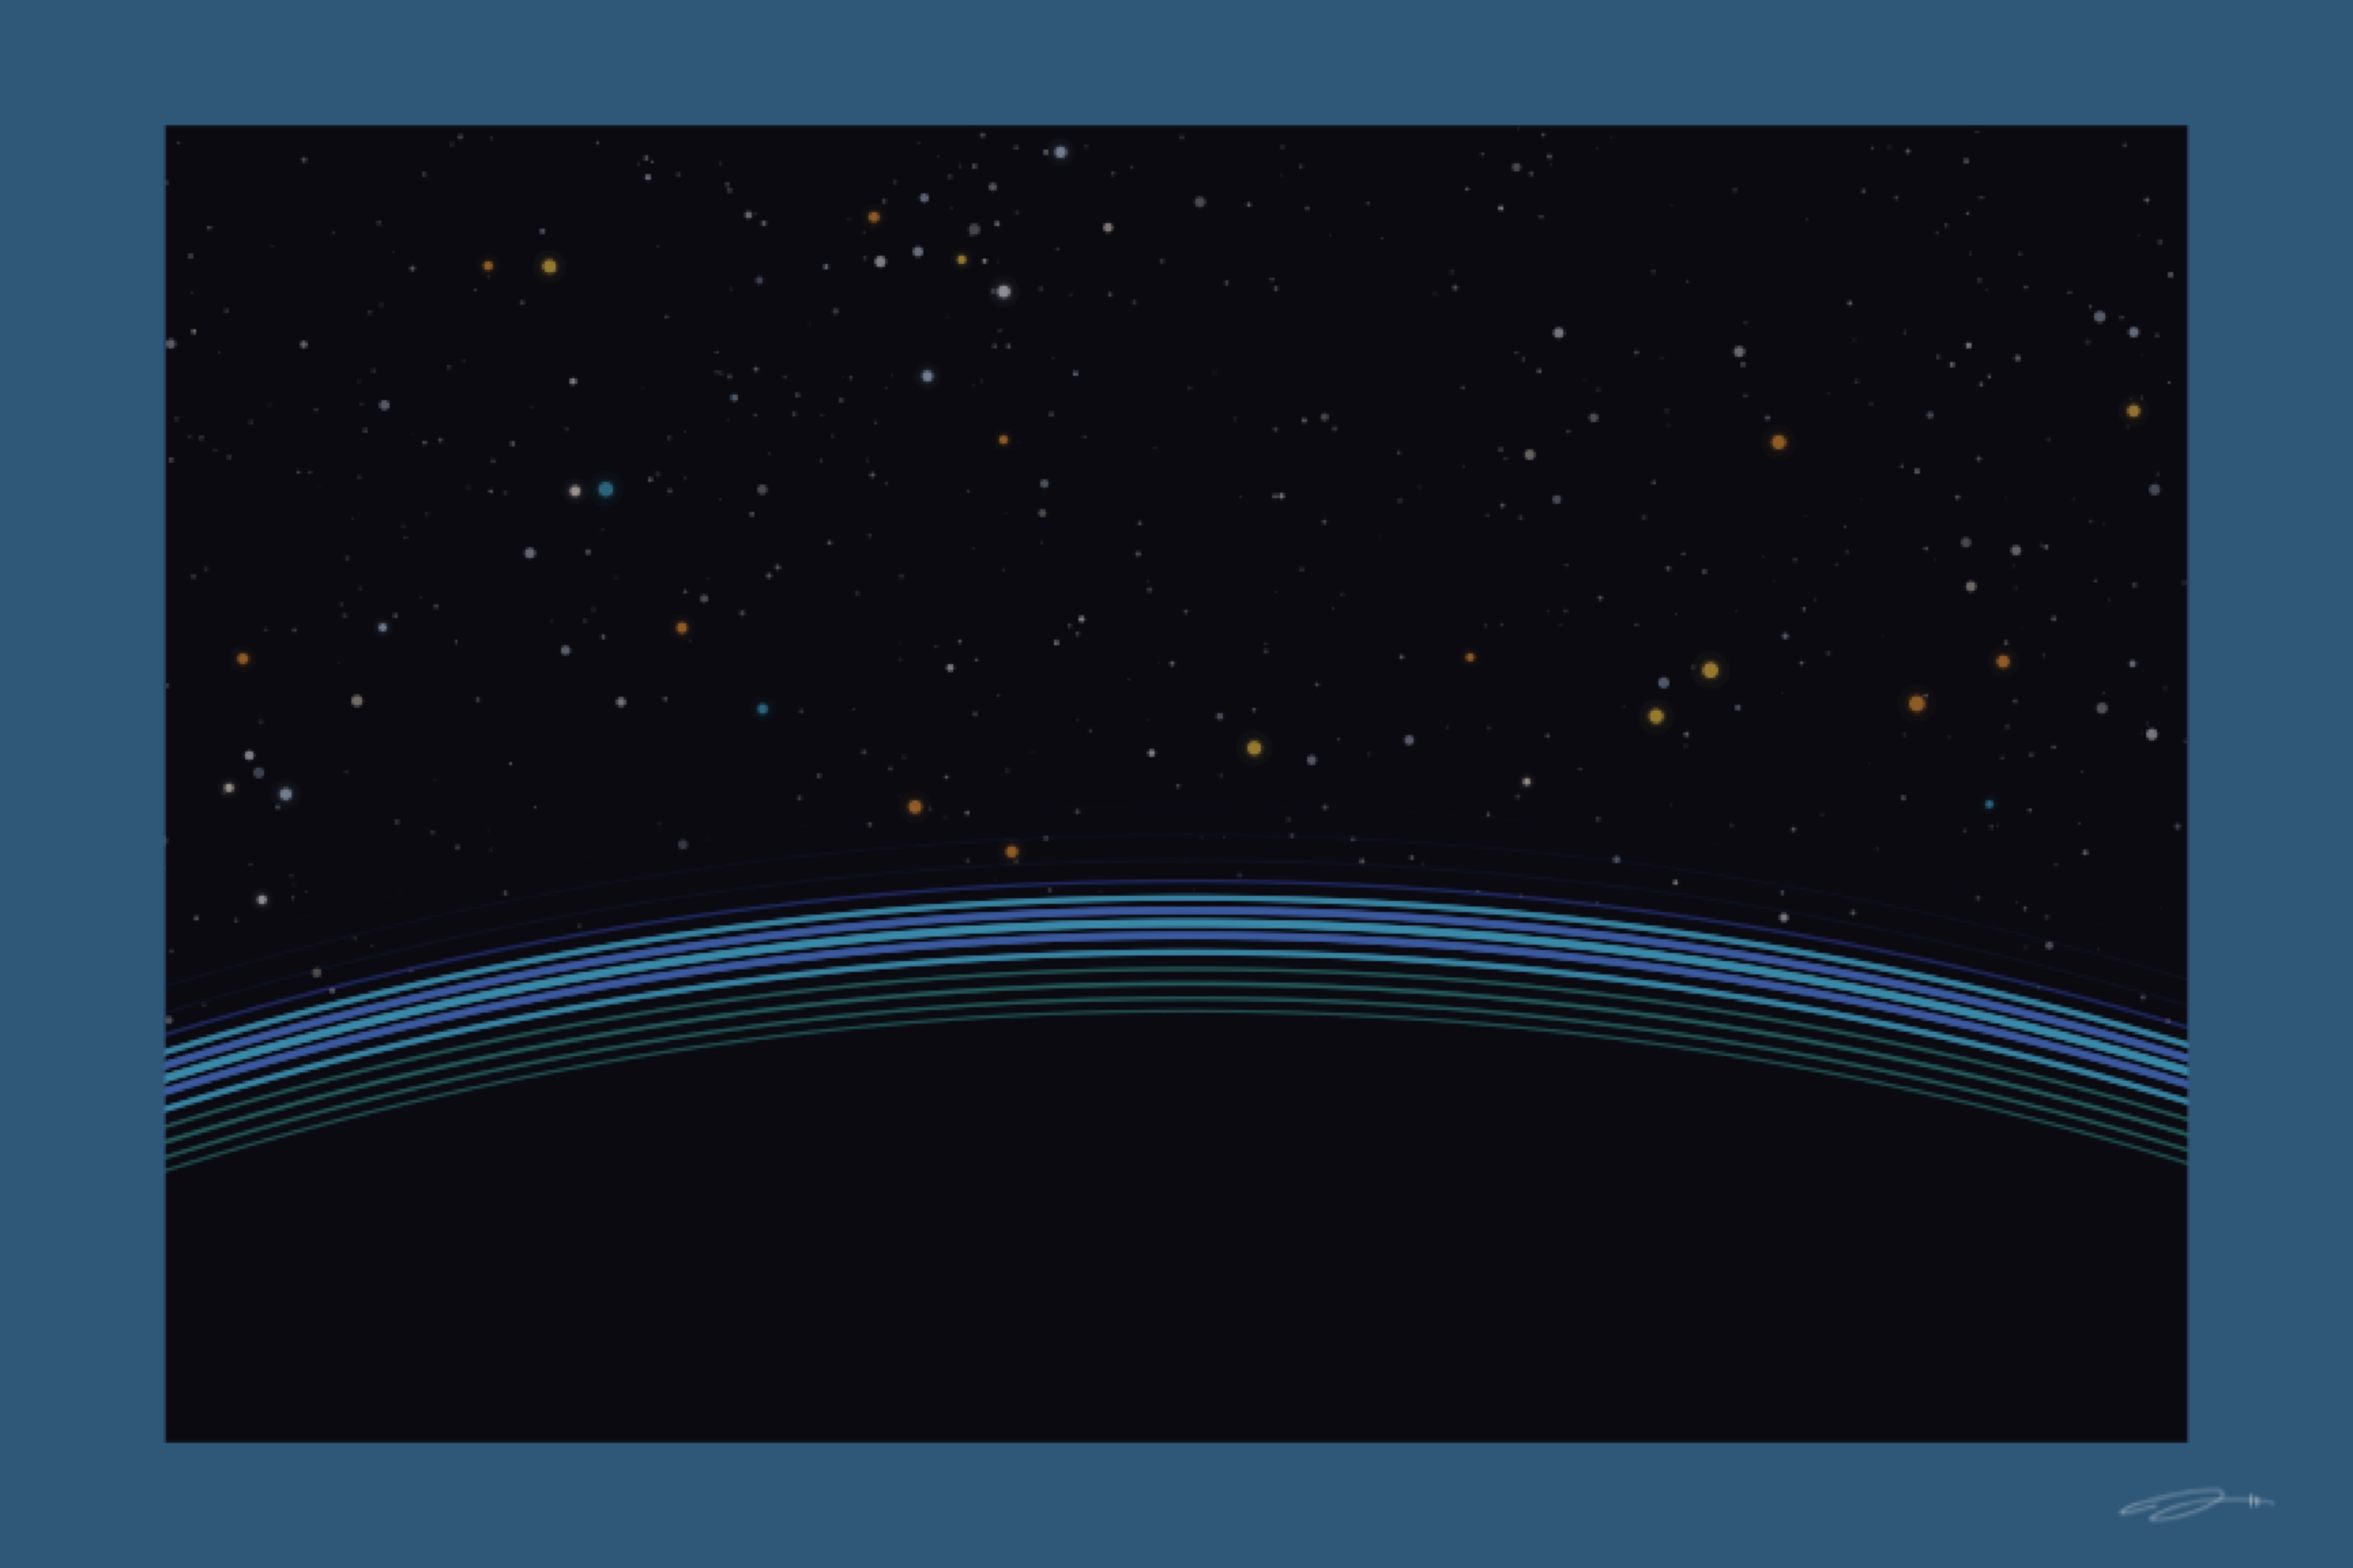
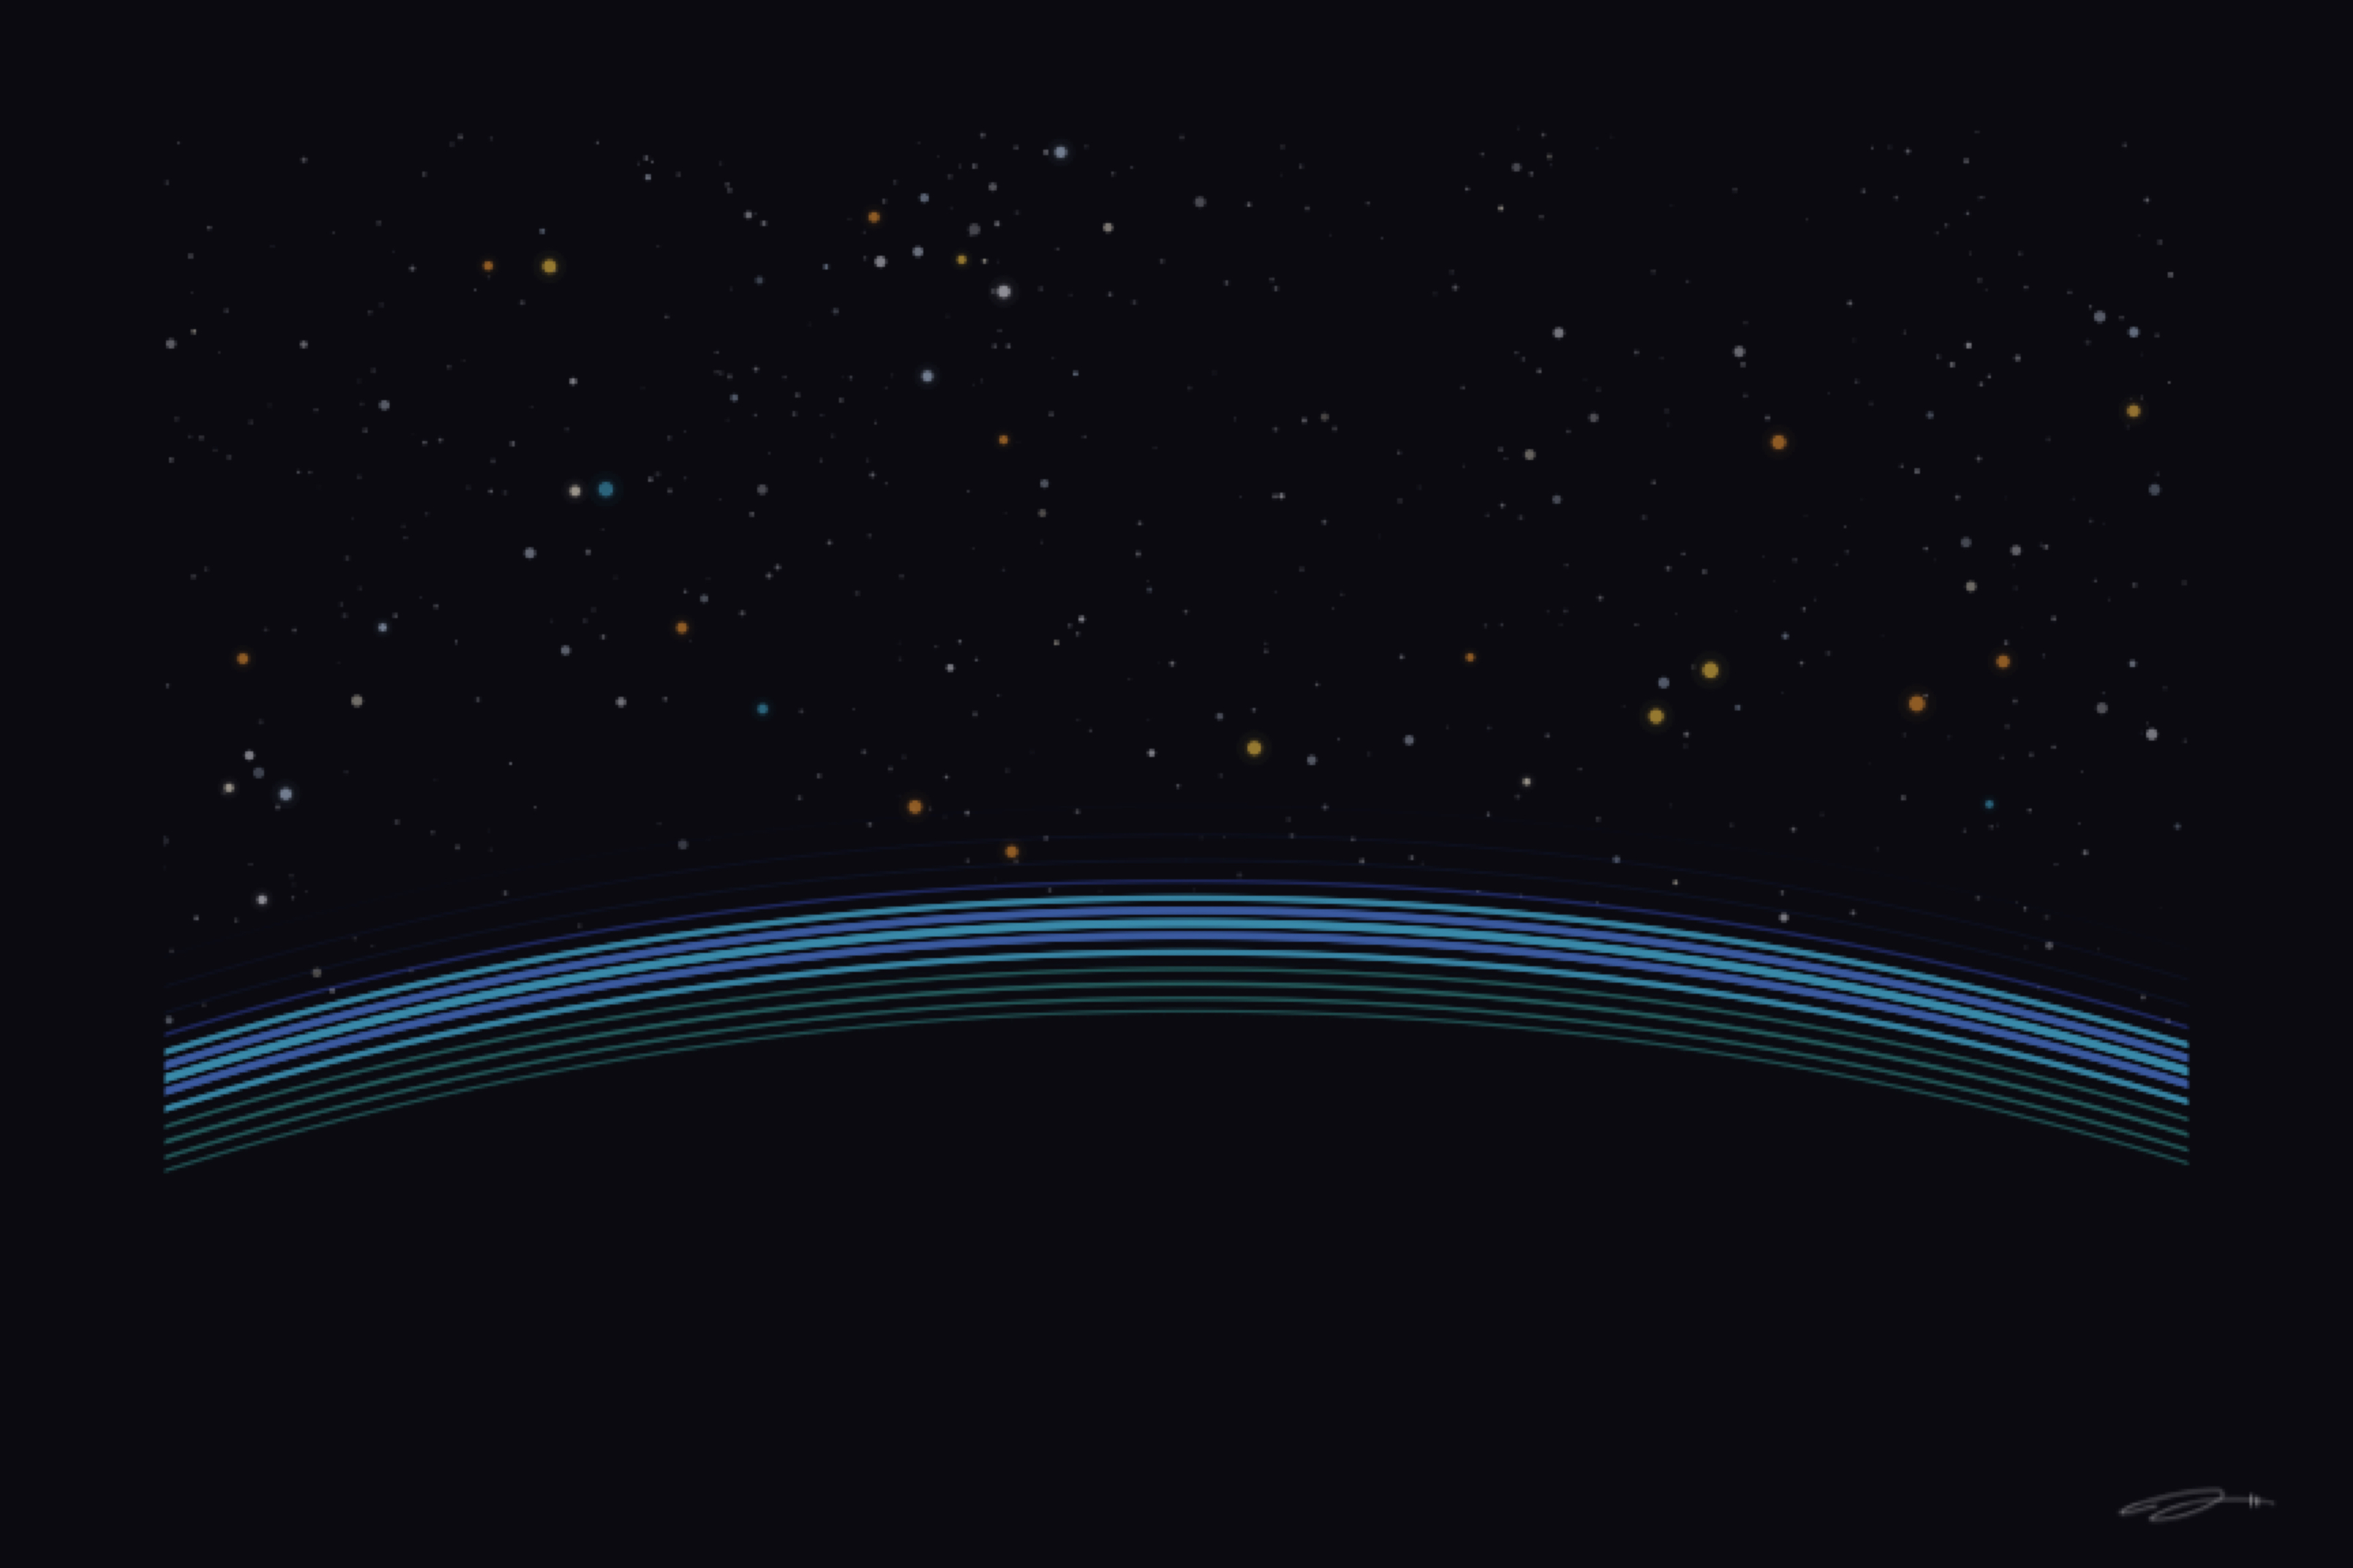
Fix Awe series background mismatches, remove Overview margin
- Eclipse: background #0A0A10 → #534027 (matches brown margin)
- Gravitational Waves: background #0A0A10 → #23345e (matches dark blue margin)
- Cosmic Web: background #0A0A10 → #151b31 (matches dark navy margin)
- Overview: re-rendered without margin — full black edge-to-edge

Changed region(s): [[0.0, 0.0, 1.0, 1.0]]

diff --git a/src/data/series.ts b/src/data/series.ts
@@ -340,11 +340,11 @@ export const series: Series[] = [
     pieces: [
       { id: "awe-deep-field", title: "Deep Field", series: "awe", equation: "N(>S) ~ S^{-3/2}", description: "Every speck is an entire galaxy. Ten thousand points of light at every depth — spirals, ellipticals, faint smears of color. The image that made humanity realize how small we are.", emotionalNote: "Every speck is an entire galaxy", background: "#0A0A10", imageUrl: "/prints/awe/awe_deep_field.jpg", gumroadUrl: "https://gumroad.com/l/placeholder", price: 45 },
       { id: "awe-murmuration", title: "Murmuration", series: "awe", equation: "v_i = α·align + β·cohere + γ·separate", description: "No choreographer. No conductor. Just three simple rules — align, cohere, separate — and 1,400 particles sweep through the frame like a flock of starlings turning in unison. I didn't choreograph any of it. The collective intelligence just emerged.", emotionalNote: "Three rules, no choreography", background: "#1E2030", imageUrl: "/prints/awe/awe_murmuration.jpg", gumroadUrl: "https://gumroad.com/l/placeholder", price: 45 },
-      { id: "awe-eclipse", title: "Eclipse", series: "awe", equation: "I(r) = I_corona / r", description: "What the sun reveals only when it's hidden. Streamers of plasma radiating outward during totality, a diamond ring at the limb — the corona visible for a few minutes of darkness. Built from an inverse-distance field, the math the sun actually follows.", emotionalNote: "What the sun reveals only when it's hidden", background: "#0A0A10", imageUrl: "/prints/awe/awe_eclipse.jpg", gumroadUrl: "https://gumroad.com/l/placeholder", price: 45 },
+      { id: "awe-eclipse", title: "Eclipse", series: "awe", equation: "I(r) = I_corona / r", description: "What the sun reveals only when it's hidden. Streamers of plasma radiating outward during totality, a diamond ring at the limb — the corona visible for a few minutes of darkness. Built from an inverse-distance field, the math the sun actually follows.", emotionalNote: "What the sun reveals only when it's hidden", background: "#534027", imageUrl: "/prints/awe/awe_eclipse.jpg", gumroadUrl: "https://gumroad.com/l/placeholder", price: 45 },
       { id: "awe-singularity", title: "Singularity", series: "awe", equation: "r(φ) = a(1-e²)/(1+e·cosφ)", description: "Where gravity bends light and time stops. An accretion disk spiraling into a black hole, light paths curving around the event horizon, time dilating to infinity at the photon sphere. The math is real. Built from relativistic orbital mechanics and gravitational lensing.", emotionalNote: "Where gravity bends light and time stops", background: "#0A0A10", imageUrl: "/prints/awe/awe_singularity.jpg", gumroadUrl: "https://gumroad.com/l/placeholder", price: 45 },
       { id: "awe-radiance", title: "Radiance", series: "awe", equation: "I(r) = I₀/r²", description: "Light that never quite reaches zero. One hundred twenty rays streaming from a brilliant center, each dimming with distance but never disappearing — no matter how far you go. The stubbornness of what shines.", emotionalNote: "Light that never quite reaches zero", background: "#0A0A10", imageUrl: "/prints/awe/awe_radiance.jpg", gumroadUrl: "https://gumroad.com/l/placeholder", price: 45 },
-      { id: "awe-cosmic-web", title: "Cosmic Web", series: "awe", equation: "ρ(r) ~ Σ G_ij / r", description: "The skeleton of everything. Galaxies connected by dark matter filaments, nodes glowing where the threads converge. This is what the universe looks like from far enough away.", emotionalNote: "The skeleton of everything", background: "#0A0A10", imageUrl: "/prints/awe/awe_cosmic_web.jpg", gumroadUrl: "https://gumroad.com/l/placeholder", price: 45 },
-      { id: "awe-gravitational-waves", title: "Gravitational Waves", series: "awe", equation: "h(r,t) = A·cos(kr-ωt)/r", description: "Spacetime itself stretching and compressing. Ripples expanding outward from two merging black holes — not moving through space, but moving space. LIGO detected these. They're real.", emotionalNote: "Ripples in spacetime that were actually detected", background: "#0A0A10", imageUrl: "/prints/awe/awe_gravitational_waves.jpg", gumroadUrl: "https://gumroad.com/l/placeholder", price: 45 },
+      { id: "awe-cosmic-web", title: "Cosmic Web", series: "awe", equation: "ρ(r) ~ Σ G_ij / r", description: "The skeleton of everything. Galaxies connected by dark matter filaments, nodes glowing where the threads converge. This is what the universe looks like from far enough away.", emotionalNote: "The skeleton of everything", background: "#151b31", imageUrl: "/prints/awe/awe_cosmic_web.jpg", gumroadUrl: "https://gumroad.com/l/placeholder", price: 45 },
+      { id: "awe-gravitational-waves", title: "Gravitational Waves", series: "awe", equation: "h(r,t) = A·cos(kr-ωt)/r", description: "Spacetime itself stretching and compressing. Ripples expanding outward from two merging black holes — not moving through space, but moving space. LIGO detected these. They're real.", emotionalNote: "Ripples in spacetime that were actually detected", background: "#23345e", imageUrl: "/prints/awe/awe_gravitational_waves.jpg", gumroadUrl: "https://gumroad.com/l/placeholder", price: 45 },
       { id: "awe-overview", title: "Overview", series: "awe", equation: "h/R ≈ 0.01‰", description: "Everything is under that thin line. Earth's atmosphere as a luminous arc against the void — drawn to scale. The line is impossibly thin. Everything anyone has ever known, felt, built, or loved exists beneath it.", emotionalNote: "Everything is under that thin line", background: "#0A0A10", imageUrl: "/prints/awe/awe_overview.jpg", gumroadUrl: "https://gumroad.com/l/placeholder", price: 45 },
     ],
     bundleGumroadUrl: "https://gumroad.com/l/placeholder-awe-bundle",
